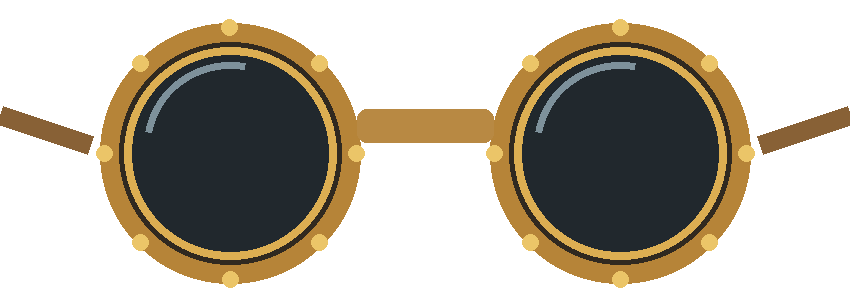
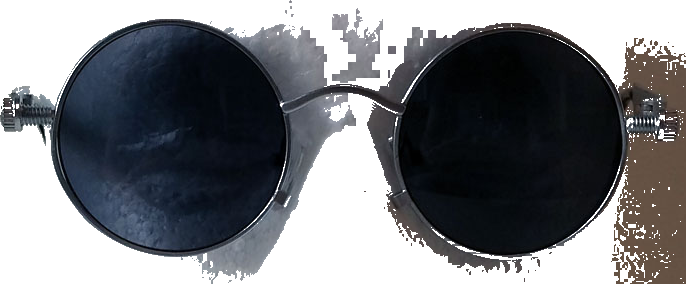
Deploy Online Galli ZIP: online-galli-face-stickers-updated

diff --git a/index.html b/index.html
@@ -900,8 +900,10 @@ footer { line-height:1.8; }
    <button type="button" data-value="aviator" role="option">🕶 Aviator Sunglasses</button>
    <button type="button" data-value="wayfarer" role="option">🕶 Wayfarer Classic</button>
    <button type="button" data-value="shelby" role="option">🧢 Thomas Shelby Cap</button>
-   <button type="button" data-value="steampunk" role="option">🥽 Steampunk Round Glasses</button>
-   <button type="button" data-value="realistic-moustache" role="option">🥸 Realistic Moustache</button>
+   <button type="button" data-value="steampunk" role="option">🥽 Round Glasses</button>
+   <button type="button" data-value="moustache" role="option">🥸 Moustache</button>
+   <button type="button" data-value="pirate" role="option">🏴☠ Pirate Eyepatch</button>
+   <button type="button" data-value="cigar" role="option">🚬 Cigar</button>
   </div>
   <select id="faceStickerSelect" aria-hidden="true" tabindex="-1">
    <option value="none">Off</option>
@@ -910,8 +912,10 @@ footer { line-height:1.8; }
    <option value="aviator">Aviator Sunglasses</option>
    <option value="wayfarer">Wayfarer Classic</option>
    <option value="shelby">Thomas Shelby Cap</option>
-   <option value="steampunk">Steampunk Round Glasses</option>
-   <option value="realistic-moustache">Realistic Moustache</option>
+   <option value="steampunk">Round Glasses</option>
+   <option value="moustache">Moustache</option>
+   <option value="pirate">Pirate Eyepatch</option>
+   <option value="cigar">Cigar</option>
   </select>
  </div>
  <span id="faceStickerStatus" role="status" aria-live="polite"></span>
@@ -2215,8 +2219,8 @@ function stickerResize(){
 }
 // Photo-derived transparent accessory artwork with landmark positioning.
 const faceArt={};
-for(const name of ["thug","chaplin-hat","chaplin-moustache","aviator","wayfarer","shelby","steampunk","realistic-moustache"]){
- const image=new Image();image.src="/assets/face-effects/"+name+".png?v=5713";faceArt[name]=image;
+for(const name of ["thug","chaplin-hat","chaplin-moustache","aviator","wayfarer","shelby","steampunk","moustache","pirate","cigar"]){
+ const image=new Image();image.src="/assets/face-effects/"+name+".png?v=5720";faceArt[name]=image;
 }
 let smoothFace=null;
 function stickerAsset(ctx,name,x,y,width,height){
@@ -2242,14 +2246,38 @@ function stickerDraw(ctx,face,mode,w,h){
  }
  const headY=(forehead.y-cy)*Math.cos(roll)+(forehead.x-cx)*Math.sin(roll);
  if(mode==="chaplin"){
-  stickerAsset(ctx,"chaplin-hat",-s*1.34,headY-s*.89,s*2.68,s*1.34);
+  stickerAsset(ctx,"chaplin-hat",-s*2.01,headY-s*1.55,s*4.02,s*2.01);
   const lipY=(lip.y-cy)*Math.cos(roll)+(lip.x-cx)*Math.sin(roll);
   stickerAsset(ctx,"chaplin-moustache",-s*.23,lipY-s*.31,s*.46,s*.22);
  }
  if(mode==="shelby")stickerAsset(ctx,"shelby",-s*1.47,headY-s*.95,s*2.94,s*1.39);
- if(mode==="realistic-moustache"){
+ if(mode==="moustache"){
   const lipY=(lip.y-cy)*Math.cos(roll)+(lip.x-cx)*Math.sin(roll);
-  stickerAsset(ctx,"realistic-moustache",-s*.72,lipY-s*.42,s*1.44,s*.55);
+  stickerAsset(ctx,"moustache",-s*.85,lipY-s*.28,s*1.70,s*.48);
+ }
+ if(mode==="pirate"){
+  // Hat on forehead + eyepatch over the left eye region of the image
+  stickerAsset(ctx,"pirate",-s*1.6,headY-s*1.1,s*3.2,s*2.88);
+ }
+ if(mode==="cigar"){
+  const lipY=(lip.y-cy)*Math.cos(roll)+(lip.x-cx)*Math.sin(roll);
+  const cigarW=s*1.1, cigarH=s*.42;
+  stickerAsset(ctx,"cigar",s*.05,lipY-s*.05,cigarW,cigarH);
+  // Simple rising smoke puffs
+  const t=(performance.now()%2400)/2400;
+  ctx.save();
+  ctx.globalAlpha=.55;
+  for(let i=0;i<3;i++){
+    const phase=(t+i*.28)%1;
+    const px=s*.55+Math.sin(phase*6.28+i)*s*.08;
+    const py=lipY-s*.15-phase*s*1.1;
+    const rad=s*(.04+phase*.08);
+    ctx.beginPath();
+    ctx.fillStyle='rgba(200,200,200,'+(0.55*(1-phase))+')';
+    ctx.arc(px,py,rad,0,Math.PI*2);
+    ctx.fill();
+  }
+  ctx.restore();
  }
  ctx.restore();
 }
